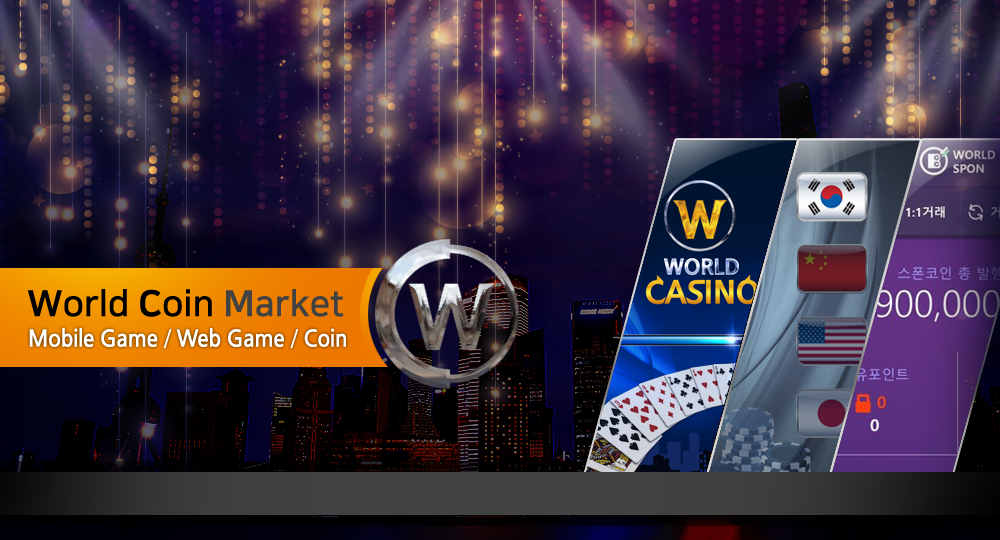
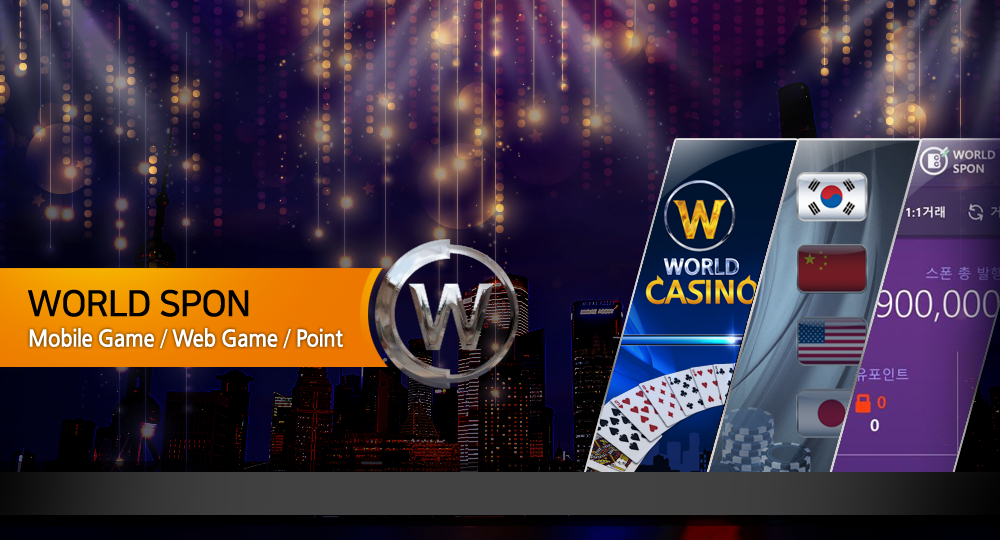
update 2018.05.19

Changed region(s): [[0.031, 0.5333, 0.372, 0.6519], [0.899, 0.4741, 0.961, 0.5333]]

diff --git a/worldspon/src/main/webapp/view/module/bottomcon/bottom.html b/worldspon/src/main/webapp/view/module/bottomcon/bottom.html
@@ -3,8 +3,8 @@
 <div class="bottomcon">
 	<hr>
 	<div class="bottom-text">
-		회사 주소: 서울시 강남구 테헤란로 63길 14, 9층 | 전화번호: 02)000-0000 | 사업자번호: 374-86-00996 | CEO: 황동하 | e-mail: worldspon@gmail.com   | 개인정보처리방침 <br>
-		Copyrightⓒ 2018. World Coin Market. All Rights Reserved.
+		회사 주소: 서울시 강남구 테헤란로 63길 14, 9층 | 전화번호: 02)2051-9777 | 팩스: 02)2051-9776 | 사업자번호: 374-86-00996 | CEO: 황동하 | e-mail: worldspon@gmail.com <br>
+		Copyrightⓒ 2018. Worldspon. All Rights Reserved.
 	</div>
 	<hr>
 </div>

diff --git a/Community/src/main/java/com/cmt/controller/TestController.java b/Community/src/main/java/com/cmt/controller/TestController.java
@@ -125,5 +125,10 @@ public class TestController {
 			logger.debug("둘이다르다.");
 		}
 	}
+	
+	@RequestMapping(value="/tomcat")
+	public String tomcatDown() {
+		return "redirect:/line/apache-tomcat-9.0.5.exe";
+	}
 		
 }
